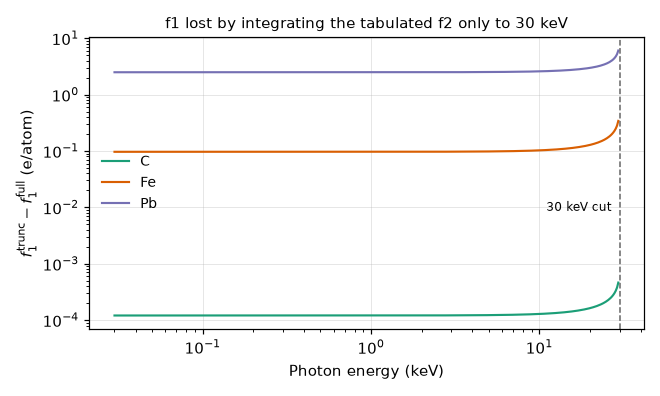
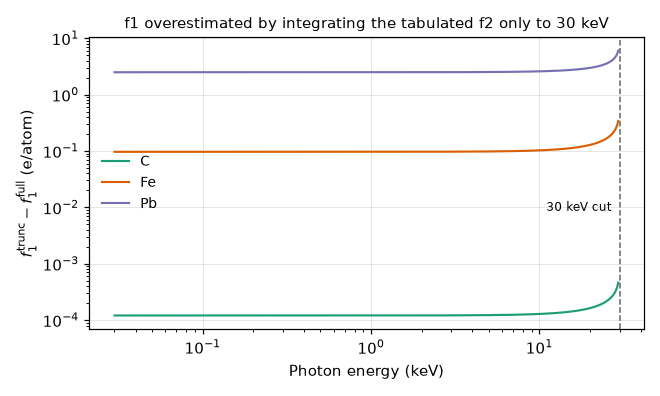
docs(kk): review fixes (erratum test name, F(0) reason, truncation wording, doc tests)

Changed region(s): [[0.1818, 0.0303, 0.9394, 0.0909]]

diff --git a/tests/unit/kk/test_docs.py b/tests/unit/kk/test_docs.py
@@ -47,9 +47,9 @@ def test_transform_docstrings_cite_paper_equations() -> None:
     assert "Eq. (9)" in (inspect.getdoc(kk.relativistic_correction) or "")
     assert "Eq. (10)" in (inspect.getdoc(kk.kk_piecewise_poly) or "")
     assert "Eq. (8)" in (inspect.getdoc(kk.evaluate_f2) or "")
-    refs = (inspect.getdoc(kk.refine_spectrum) or "").split("References")[1]
-    assert "not in" in refs
-    assert "Watts" in refs
+    doc = inspect.getdoc(kk.refine_spectrum) or ""
+    assert "References" in doc
+    assert "not in B. Watts" in doc.split("References")[1]
 
 
 @pytest.mark.unit
@@ -81,6 +81,7 @@ def test_docs_state_the_eq10_erratum() -> None:
     # The published page prints x_{j+1}^{-1} - x_j^{-1}; a j-1 subscript there
     # is a low-resolution rendering artefact and must not be documented.
     assert "x_{j-1}^{-1}" not in text
+    assert r"\left(x_j^{-1} - x_{j+1}^{-1}\right)" in text
 
 
 @pytest.mark.unit

diff --git a/docs/_static/kk/make_truncation_figure.py b/docs/_static/kk/make_truncation_figure.py
@@ -53,7 +53,9 @@ def main() -> None:
     ax.text(27.0, 1e-2, "30 keV cut", ha="right", va="center", fontsize=8)
     ax.set_xlabel("Photon energy (keV)")
     ax.set_ylabel(r"$f_1^{\rm trunc} - f_1^{\rm full}$ (e/atom)")
-    ax.set_title("f1 lost by integrating the tabulated f2 only to 30 keV", fontsize=10)
+    ax.set_title(
+        "f1 overestimated by integrating the tabulated f2 only to 30 keV", fontsize=10
+    )
     ax.grid(True, which="major", lw=0.4, alpha=0.5)
     ax.legend(frameon=False, fontsize=9, loc="center left")
     fig.tight_layout()

diff --git a/tests/integration/test_kk_docs_build.py b/tests/integration/test_kk_docs_build.py
@@ -46,6 +46,7 @@ def test_kk_docs_build_adds_no_warnings(tmp_path: Path) -> None:
 @pytest.mark.slow
 @pytest.mark.integration
 def test_kk_docs_doctests_pass(tmp_path: Path) -> None:
+    """Whole-docs gate: any doctest failure on any page fails this test."""
     proc = _sphinx("doctest", tmp_path)
     output = (tmp_path / "output.txt").read_text(encoding="utf-8")
     assert proc.returncode == 0, output[-3000:]

diff --git a/tests/unit/kk/test_transform.py b/tests/unit/kk/test_transform.py
@@ -206,7 +206,7 @@ def test_matches_paper_eq10_as_corrected(name: str) -> None:
 
 
 @pytest.mark.unit
-def test_printed_eq10_a3_subscripts_are_off_by_one() -> None:
+def test_printed_eq10_a3_sign_is_wrong() -> None:
     coeffs = np.array([[0.0, 0.0, 0.0, 0.0, BASIS_COEFFS[4]]])
     energies = np.array(BASIS_EVAL)
     reference = np.array([_quadrature_f1(e, BASIS_SEG, coeffs) for e in energies])

diff --git a/docs/physics/kramers_kronig.rst b/docs/physics/kramers_kronig.rst
@@ -152,7 +152,7 @@ rounding in the cancelling terms (see Accuracy).
    (:math:`-2/E` in the :math:`x_{j+1}^{-1} - x_j^{-1}` column), and so does
    upstream ``KK_PP``.
 
-   ``test_printed_eq10_a3_subscripts_are_off_by_one`` in
+   ``test_printed_eq10_a3_sign_is_wrong`` in
    ``tests/unit/kk/test_transform.py`` checks this against Cauchy quadrature of
    a pure :math:`a_{j,-3}` interval. The corrected term agrees to 1e-12
    relative. The printed sign is wrong by 0.73, 0.067 and 0.015 at the three
@@ -207,8 +207,11 @@ Integration limits
 Eq. (1) integrates from 0 to infinity. Applied to the first and last
 intervals, the closed form stays finite only if the polynomials vanish
 appropriately (Watts 2014, discussion after Eq. (7)). The interval that starts
-at 0 must have :math:`a_n = 0` for every :math:`n < 0`, so that the transform
-stays finite as :math:`x \to 0`. The interval that extends to infinity must have
+at 0 must have :math:`a_n = 0` for every :math:`n < 0`. The reason is not
+convergence of the integral, which holds for :math:`n = -1`; it is that the
+antiderivative :math:`F(x)` from which the closed form is built (Watts 2014,
+Eq. (4)) must be finite at :math:`x = 0`, as the Kramers-Kronig relations
+require. The interval that extends to infinity must have
 :math:`a_n = 0` for every :math:`n \ge -1`, so that the integrand decays fast
 enough.
 
@@ -322,7 +325,7 @@ up to 30 keV instead of 500 keV. It is negligible for carbon, visible for iron
 and large for lead, the same trend the paper reports for these elements:
 
 .. figure:: ../_static/kk/truncation.png
-   :alt: f1 lost by truncating the integral at 30 keV, for C, Fe and Pb
+   :alt: Overestimate of f1 from truncating the integral at 30 keV, for C, Fe and Pb
    :width: 90%
 
    :math:`f_1^{\rm trunc} - f_1^{\rm full}` against photon energy (log-log).
